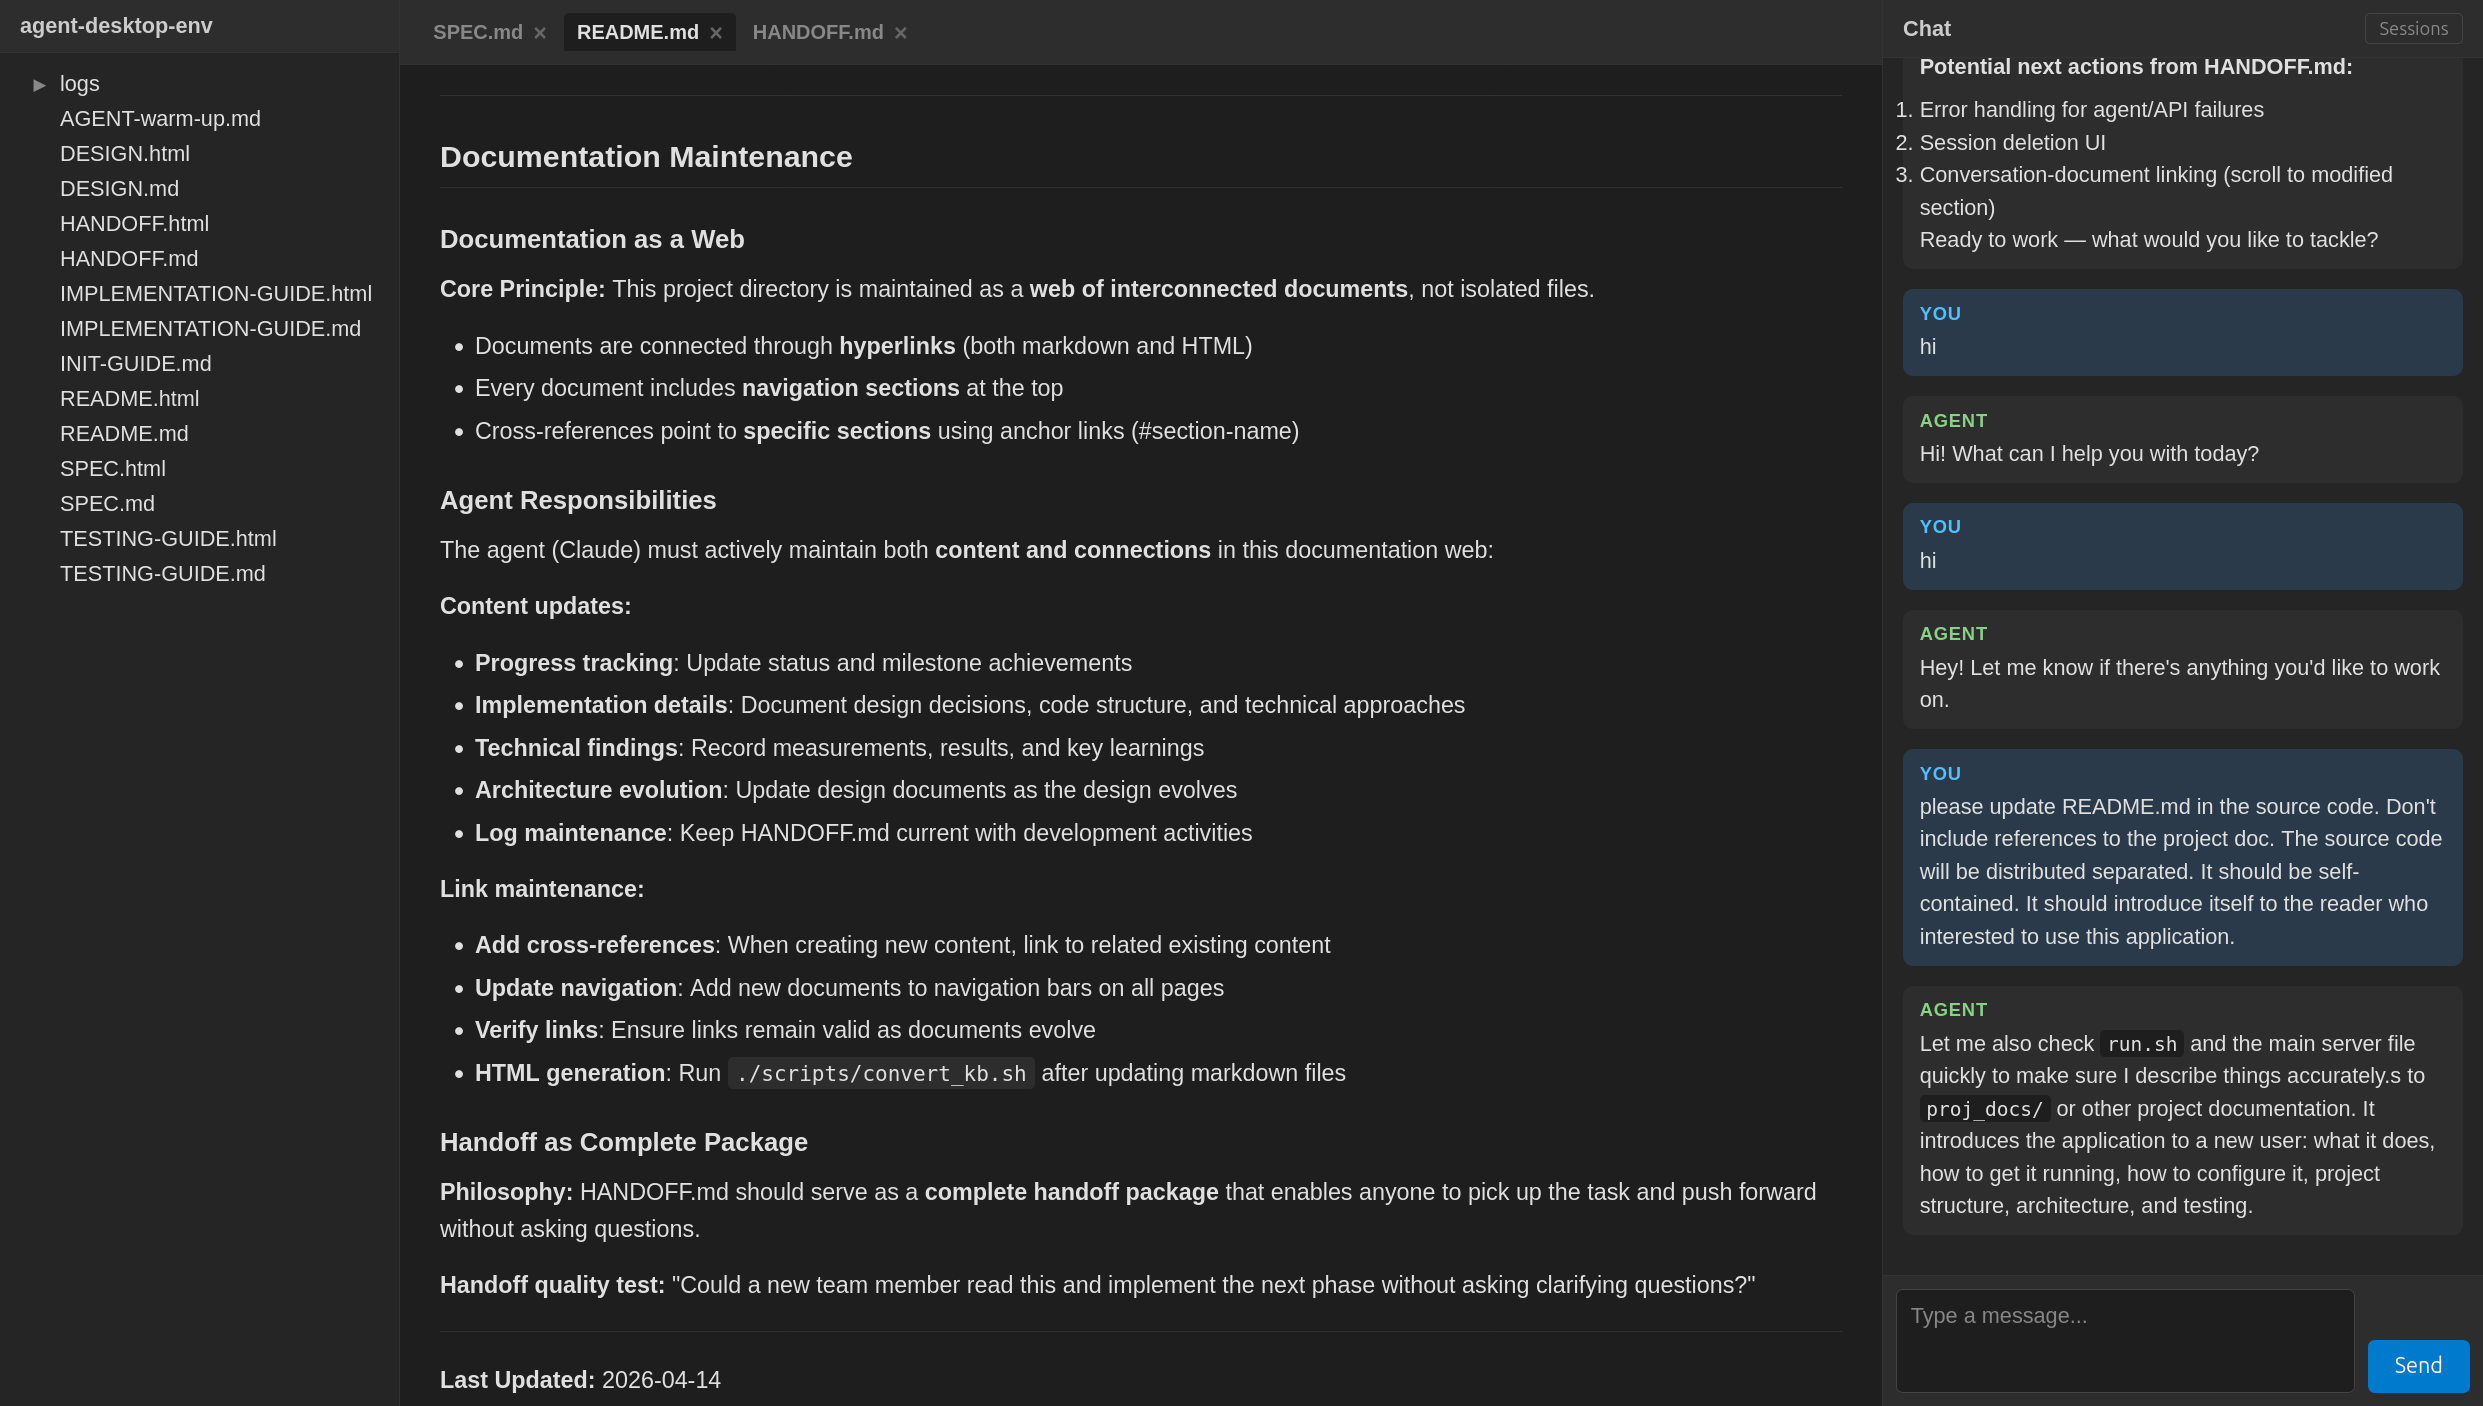
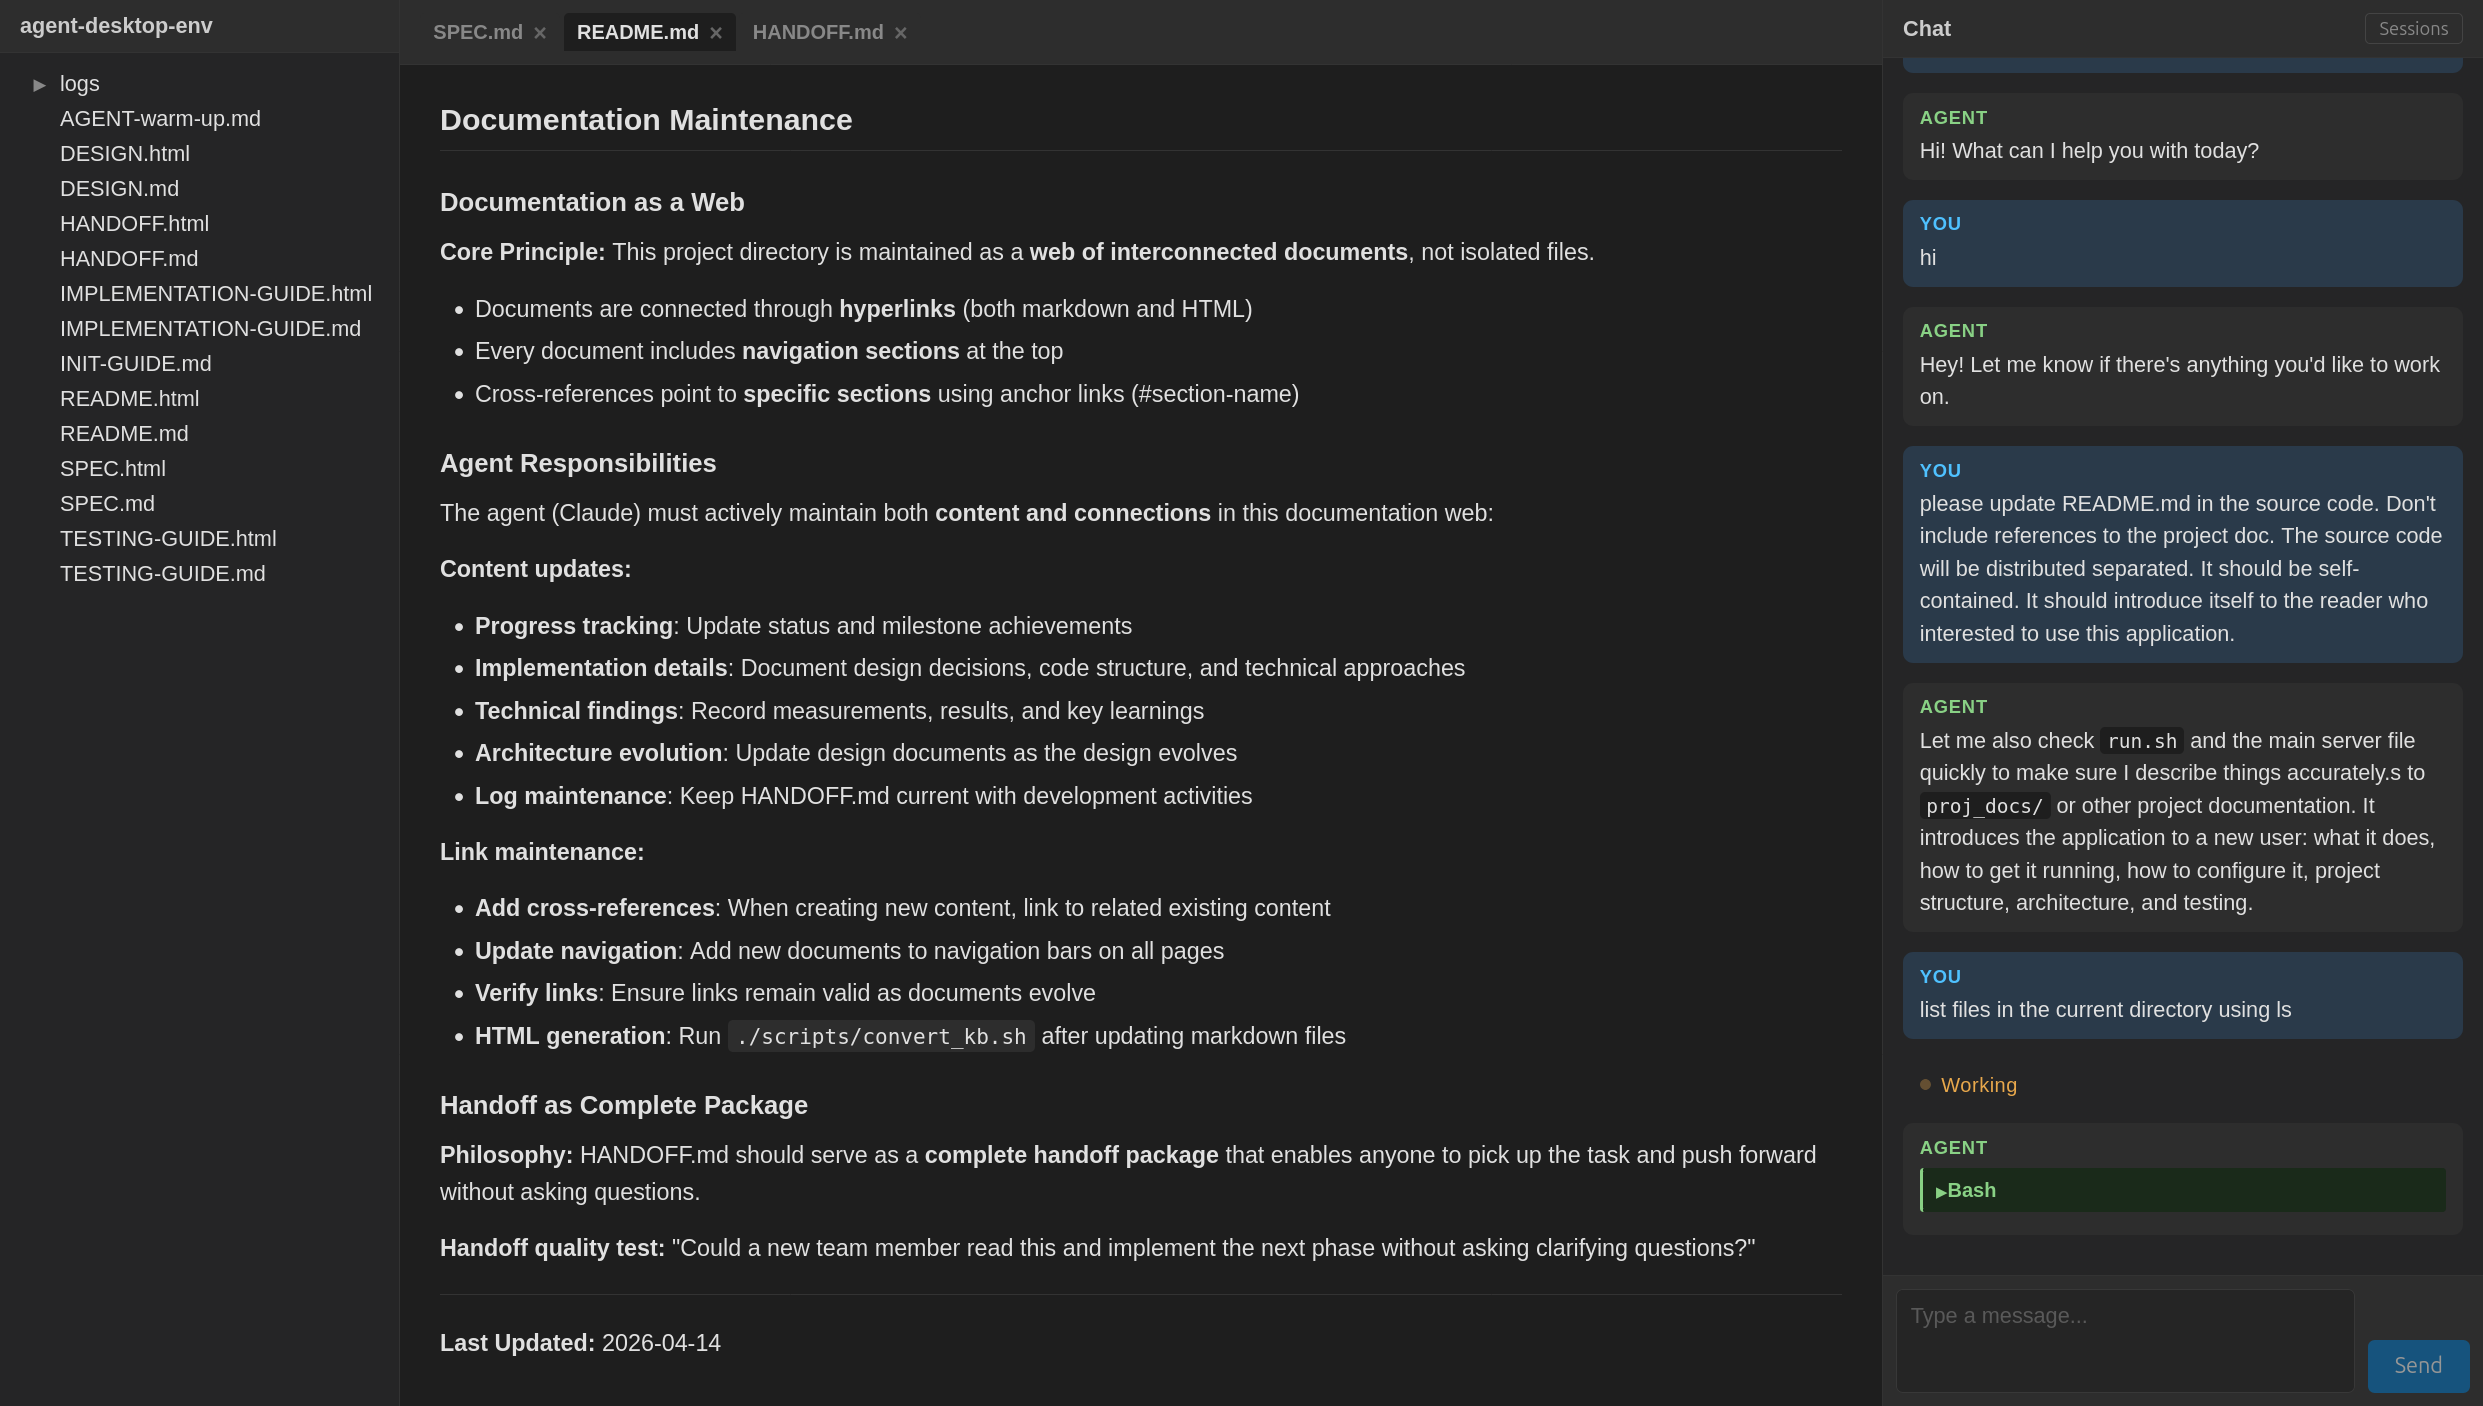
Show tool use and thinking in chat panel
Parse tool_use, tool_result, and thinking content blocks from Claude
Code's stream-json output and display them in the chat UI. Tool use
blocks show a collapsible green label with the tool name; clicking
expands to show the input and result. Thinking blocks use an amber
label, also collapsible.

diff --git a/static/js/chat.js b/static/js/chat.js
@@ -220,6 +220,108 @@
     if (window.DocPanel) window.DocPanel.clearAnnotation();
   }
 
+  // ── Tool use and thinking display ──
+
+  function addToolUse(name, input) {
+    // Finish any pending text streaming first
+    if (currentAssistantEl) {
+      if (typeof marked !== 'undefined') {
+        currentAssistantEl.innerHTML = marked.parse(currentAssistantText);
+      }
+    }
+
+    var wrapper = document.createElement('div');
+    wrapper.className = 'chat-tool-use';
+
+    var nameEl = document.createElement('div');
+    nameEl.className = 'chat-tool-name';
+    nameEl.textContent = name;
+
+    var inputEl = document.createElement('div');
+    inputEl.className = 'chat-tool-input';
+    // Show a brief summary of the input
+    var inputText = '';
+    if (input) {
+      if (input.command) inputText = input.command;
+      else if (input.pattern) inputText = input.pattern;
+      else if (input.file_path) inputText = input.file_path;
+      else if (input.prompt) inputText = input.prompt.substring(0, 200);
+      else inputText = JSON.stringify(input, null, 2);
+    }
+    inputEl.textContent = inputText;
+
+    nameEl.addEventListener('click', function() {
+      wrapper.classList.toggle('expanded');
+    });
+
+    wrapper.appendChild(nameEl);
+    wrapper.appendChild(inputEl);
+
+    // Add to current assistant message block, or to messages container
+    if (currentAssistantEl) {
+      currentAssistantEl.parentNode.appendChild(wrapper);
+    } else {
+      // Create a container for this turn
+      var msgEl = document.createElement('div');
+      msgEl.className = 'chat-message chat-message-assistant';
+      var roleEl = document.createElement('div');
+      roleEl.className = 'chat-role';
+      roleEl.textContent = 'Agent';
+      msgEl.appendChild(roleEl);
+      msgEl.appendChild(wrapper);
+      messagesEl.appendChild(msgEl);
+    }
+    messagesEl.scrollTop = messagesEl.scrollHeight;
+  }
+
+  function addToolResult(content) {
+    var resultEl = document.createElement('div');
+    resultEl.className = 'chat-tool-result';
+    resultEl.textContent = content;
+
+    // Find the last tool-use block and insert result after it
+    var toolBlocks = messagesEl.querySelectorAll('.chat-tool-use');
+    if (toolBlocks.length > 0) {
+      var lastTool = toolBlocks[toolBlocks.length - 1];
+      lastTool.parentNode.insertBefore(resultEl, lastTool.nextSibling);
+    }
+    messagesEl.scrollTop = messagesEl.scrollHeight;
+  }
+
+  function addThinking(text) {
+    var wrapper = document.createElement('div');
+    wrapper.className = 'chat-thinking';
+
+    var labelEl = document.createElement('div');
+    labelEl.className = 'chat-thinking-label';
+    labelEl.textContent = 'Thinking';
+
+    var contentEl = document.createElement('div');
+    contentEl.className = 'chat-thinking-content';
+    contentEl.textContent = text;
+
+    labelEl.addEventListener('click', function() {
+      wrapper.classList.toggle('expanded');
+    });
+
+    wrapper.appendChild(labelEl);
+    wrapper.appendChild(contentEl);
+
+    if (currentAssistantEl) {
+      currentAssistantEl.parentNode.appendChild(wrapper);
+    } else {
+      var msgEl = document.createElement('div');
+      msgEl.className = 'chat-message chat-message-assistant';
+      var roleEl = document.createElement('div');
+      roleEl.className = 'chat-role';
+      roleEl.textContent = 'Agent';
+      msgEl.appendChild(roleEl);
+      msgEl.appendChild(wrapper);
+      messagesEl.appendChild(msgEl);
+    }
+    messagesEl.scrollTop = messagesEl.scrollHeight;
+  }
+
   // Handle incoming chat messages from WebSocket
   function handleChat(payload) {
     if (payload.role === 'assistant') {
@@ -228,6 +330,12 @@
       } else {
         finishStreaming();
       }
+    } else if (payload.role === 'tool_use') {
+      addToolUse(payload.name, payload.input);
+    } else if (payload.role === 'tool_result') {
+      addToolResult(payload.content);
+    } else if (payload.role === 'thinking') {
+      addThinking(payload.content);
     }
   }
 

diff --git a/static/css/style.css b/static/css/style.css
@@ -251,6 +251,107 @@ html, body {
   font-style: italic;
 }
 
+/* Tool use and thinking blocks */
+.chat-tool-use {
+  background: #1a2a1a;
+  border-left: 2px solid #89d185;
+  padding: 6px 8px;
+  margin: 6px 0;
+  border-radius: 2px;
+  font-size: 12px;
+}
+
+.chat-tool-name {
+  color: #89d185;
+  font-weight: 600;
+  cursor: pointer;
+}
+
+.chat-tool-name::before {
+  content: '\25B6 ';
+  font-size: 9px;
+}
+
+.chat-tool-use.expanded .chat-tool-name::before {
+  content: '\25BC ';
+}
+
+.chat-tool-input {
+  display: none;
+  margin-top: 4px;
+  color: #aaa;
+  font-family: monospace;
+  font-size: 11px;
+  white-space: pre-wrap;
+  word-break: break-all;
+  max-height: 200px;
+  overflow-y: auto;
+}
+
+.chat-tool-use.expanded .chat-tool-input {
+  display: block;
+}
+
+.chat-tool-result {
+  background: #1a1a2a;
+  border-left: 2px solid #7a8aaa;
+  padding: 6px 8px;
+  margin: 4px 0 6px 0;
+  border-radius: 2px;
+  font-size: 11px;
+  font-family: monospace;
+  color: #aaa;
+  white-space: pre-wrap;
+  word-break: break-all;
+  max-height: 150px;
+  overflow-y: auto;
+  display: none;
+}
+
+.chat-tool-use.expanded + .chat-tool-result {
+  display: block;
+}
+
+.chat-thinking {
+  background: #2a2a1a;
+  border-left: 2px solid #e8a84c;
+  padding: 6px 8px;
+  margin: 6px 0;
+  border-radius: 2px;
+  font-size: 12px;
+  color: #aaa;
+  font-style: italic;
+  cursor: pointer;
+}
+
+.chat-thinking-label {
+  color: #e8a84c;
+  font-weight: 600;
+  font-style: normal;
+}
+
+.chat-thinking-label::before {
+  content: '\25B6 ';
+  font-size: 9px;
+}
+
+.chat-thinking.expanded .chat-thinking-label::before {
+  content: '\25BC ';
+}
+
+.chat-thinking-content {
+  display: none;
+  margin-top: 4px;
+  white-space: pre-wrap;
+  word-break: break-word;
+  max-height: 200px;
+  overflow-y: auto;
+}
+
+.chat-thinking.expanded .chat-thinking-content {
+  display: block;
+}
+
 .streaming-cursor {
   display: inline-block;
   width: 6px;

diff --git a/server/agent.py b/server/agent.py
@@ -10,13 +10,17 @@ class AgentRunner:
         self.project_dir = project_dir
         self.session_id: str | None = None
 
-    async def run(self, prompt: str, on_text=None, on_done=None):
+    async def run(self, prompt: str, on_text=None, on_done=None,
+                  on_tool_use=None, on_tool_result=None, on_thinking=None):
         """Run a prompt through Claude Code and stream the response.
 
         Args:
             prompt: The user's message
             on_text: async callback(text_chunk) called for each text chunk
             on_done: async callback(full_result) called when complete
+            on_tool_use: async callback(tool_info) called when agent invokes a tool
+            on_tool_result: async callback(result_info) called with tool result
+            on_thinking: async callback(thinking_text) called for thinking blocks
         """
         cmd = [
             "claude", "-p",
@@ -52,11 +56,12 @@ class AgentRunner:
             event_type = event.get("type")
 
             if event_type == "assistant":
-                # Extract text from the message content
+                # Extract content blocks from the message
                 message = event.get("message", {})
                 content_blocks = message.get("content", [])
                 for block in content_blocks:
-                    if block.get("type") == "text":
+                    block_type = block.get("type")
+                    if block_type == "text":
                         text = block["text"]
                         # For streaming, send the full text so far
                         # (each assistant event contains the accumulated text)
@@ -65,6 +70,34 @@ class AgentRunner:
                             full_text = text
                             if on_text and new_chunk:
                                 await on_text(new_chunk)
+                    elif block_type == "tool_use" and on_tool_use:
+                        await on_tool_use({
+                            "name": block.get("name", ""),
+                            "input": block.get("input", {}),
+                        })
+                    elif block_type == "thinking" and on_thinking:
+                        thinking_text = block.get("thinking", "")
+                        if thinking_text:
+                            await on_thinking(thinking_text)
+
+            elif event_type == "user":
+                # Tool results come back as user events
+                message = event.get("message", {})
+                content_blocks = message.get("content", [])
+                for block in content_blocks:
+                    if block.get("type") == "tool_result" and on_tool_result:
+                        # Extract text content from the tool result
+                        result_content = block.get("content", "")
+                        if isinstance(result_content, list):
+                            parts = []
+                            for part in result_content:
+                                if isinstance(part, dict) and part.get("type") == "text":
+                                    parts.append(part.get("text", ""))
+                            result_content = "\n".join(parts)
+                        await on_tool_result({
+                            "tool_use_id": block.get("tool_use_id", ""),
+                            "content": str(result_content)[:2000],
+                        })
 
             elif event_type == "result":
                 # Final result — capture session_id for resume

diff --git a/server/websocket.py b/server/websocket.py
@@ -119,6 +119,34 @@ class ConnectionManager:
                 },
             }))
 
+        async def on_tool_use(tool_info):
+            await self.send_to(websocket, json.dumps({
+                "type": "chat",
+                "payload": {
+                    "role": "tool_use",
+                    "name": tool_info["name"],
+                    "input": tool_info["input"],
+                },
+            }))
+
+        async def on_tool_result(result_info):
+            await self.send_to(websocket, json.dumps({
+                "type": "chat",
+                "payload": {
+                    "role": "tool_result",
+                    "content": result_info["content"],
+                },
+            }))
+
+        async def on_thinking(text):
+            await self.send_to(websocket, json.dumps({
+                "type": "chat",
+                "payload": {
+                    "role": "thinking",
+                    "content": text,
+                },
+            }))
+
         async def on_done(result):
             await self.send_to(websocket, json.dumps({
                 "type": "chat",
@@ -132,4 +160,11 @@ class ConnectionManager:
                 },
             }))
 
-        await self.agent.run(prompt, on_text=on_text, on_done=on_done)
+        await self.agent.run(
+            prompt,
+            on_text=on_text,
+            on_done=on_done,
+            on_tool_use=on_tool_use,
+            on_tool_result=on_tool_result,
+            on_thinking=on_thinking,
+        )
